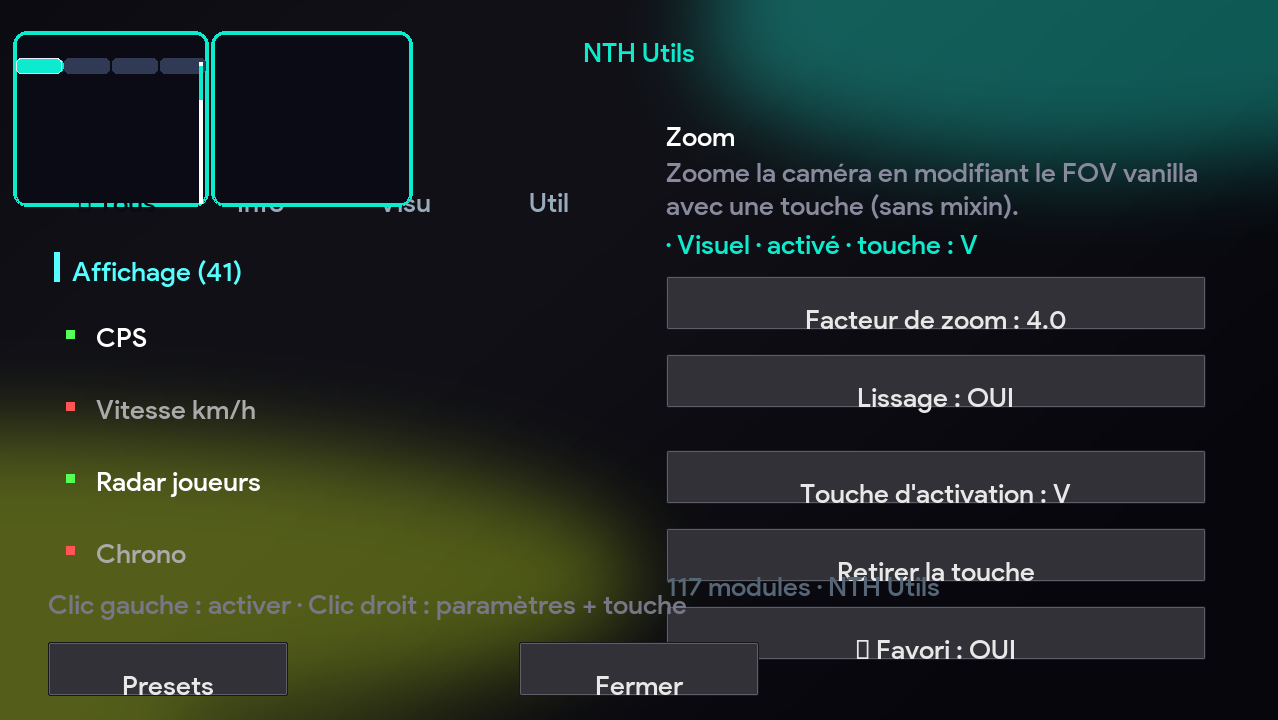
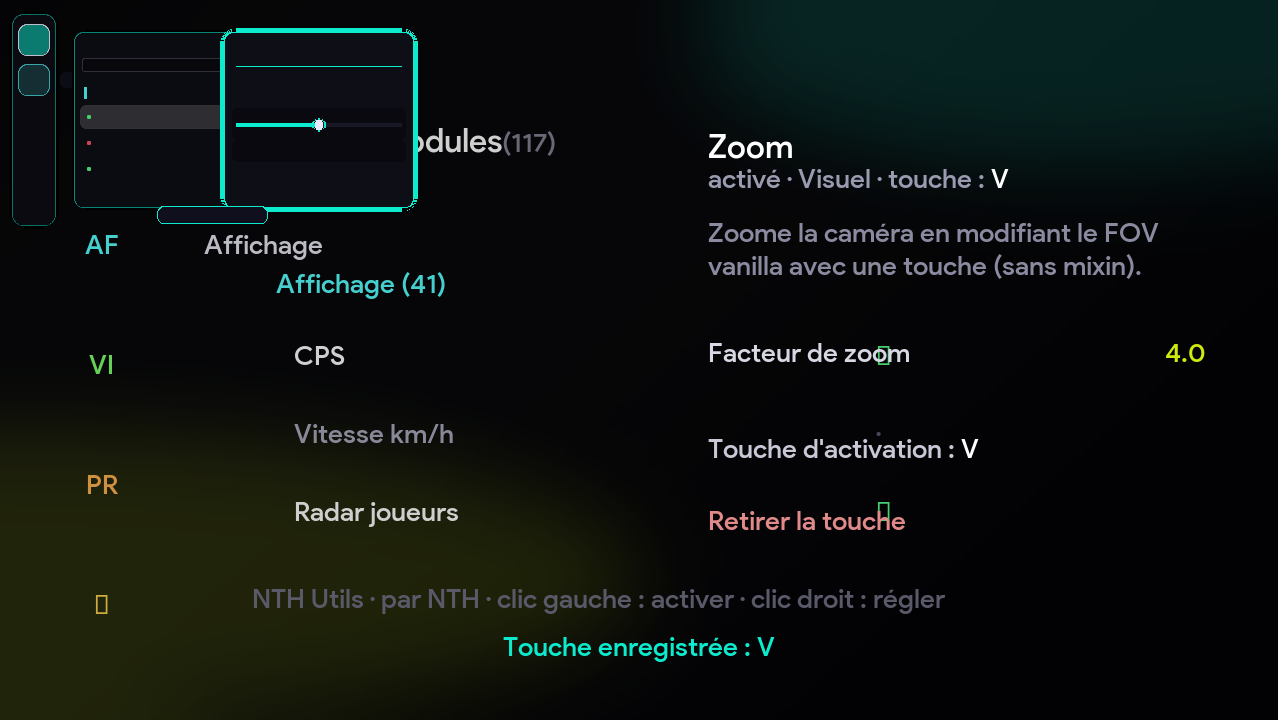
Captures et légendes : rail latéral + paramètres empilés (menu à la CorzClient)

diff --git a/docs/index.html b/docs/index.html
@@ -262,7 +262,7 @@
     <div style="display:grid;grid-template-columns:repeat(auto-fit,minmax(320px,1fr));gap:16px;margin-top:24px">
       <figure style="margin:0;background:rgba(12,12,20,.72);border:1px solid rgba(122,60,255,.28);border-radius:14px;padding:10px">
         <img src="screenshots/menu-principal.png" alt="Menu principal NTH Utils" loading="lazy" style="width:100%;border-radius:8px;display:block">
-        <figcaption style="padding:8px 4px 2px;font-size:13px;color:#aab">Menu principal — modules, chips et glow accent</figcaption>
+        <figcaption style="padding:8px 4px 2px;font-size:13px;color:#aab">Menu principal — rail latéral, modules et paramètres empilés (clic droit sur un module)</figcaption>
       </figure>
       <figure style="margin:0;background:rgba(12,12,20,.72);border:1px solid rgba(122,60,255,.28);border-radius:14px;padding:10px">
         <img src="screenshots/presets.png" alt="Gestion des presets" loading="lazy" style="width:100%;border-radius:8px;display:block">

diff --git a/README.md b/README.md
@@ -8,7 +8,7 @@
 
 | | |
 |---|---|
-| **Menu principal** (vue Modules, coins arrondis + glow accent) | **Paramètres du module** (clic droit sur un module) |
+| **Menu principal** (rail à la Corz + paramètres empilés, clic droit sur un module) | **Presets** (★ dans le rail : sauvegarde, export, import) |
 | ![Menu principal](docs/screenshots/menu-principal.png) | ![Presets](docs/screenshots/presets.png) |
 | **HUD en jeu** (dégradés + Keystrokes) | **Palettes de thème** (accent animé, à la CorzClient) |
 | ![HUD](docs/screenshots/hud.png) | ![Palettes](docs/screenshots/palettes.png) |
